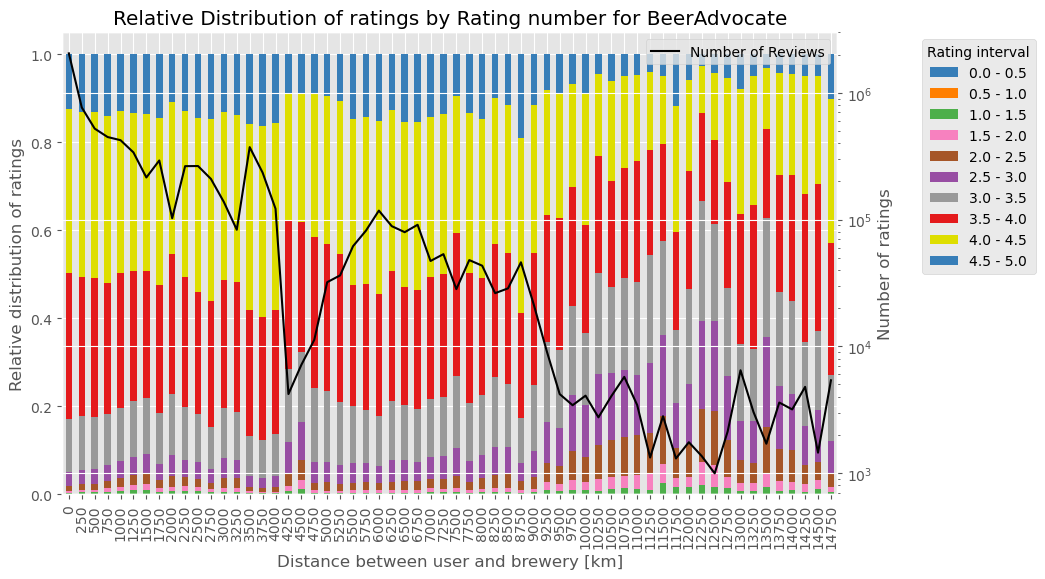
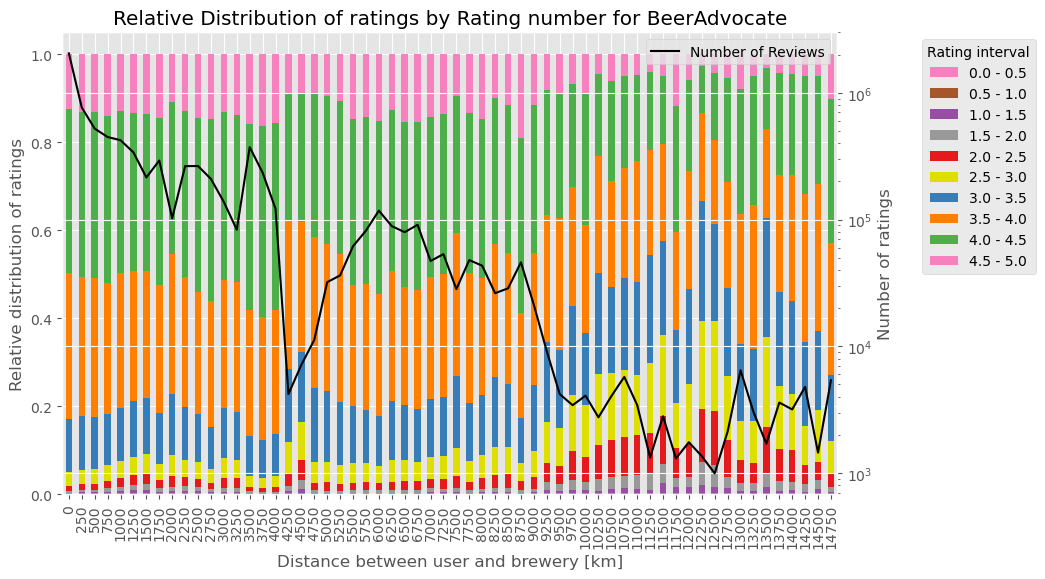
Changing images of Benedikt so the colors are in an order so that orange and blue are more prominent. Also adding more text.

Changed region(s): [[0.0612, 0.0933, 0.7962, 0.8705], [0.888, 0.0933, 0.9187, 0.4663]]

diff --git a/index.html b/index.html
@@ -111,6 +111,17 @@ title: Home
     <p>The following plot illustrates the distribution of user ratings for beers from breweries at various distances. On the x-axis, you can see the distance categories of the breweries from which the corresponding bar is calculated. The different colored segments in the stacked bars indicate the frequency of each rating for breweries at a given distance from the user. However, it is evident that some bars are more meaningful than others due to being based on more data. Therefore, we have also included a line indicating the number of ratings for each user-brewery distance. We show the plot for both datasets on which our analysis was based, in order to be able to see whether there are any major differences.</p>
     <img src="src/plots/imgs/distance_beer_advocate.png" alt="Plot showing the change in the rating distribution for different user-brewery distances for the BeerAdvocate dataset">
     <img src="src/plots/imgs/distance_rate_beer.png" alt="Plot showing the change in the rating distribution for different user-brewery distances for the RateBeer dataset">
+    <p>
+        We can indeed identify some trends. For example, we observe a peak of better ratings at a distance of approximately 4250 km to 4750 km. However, the line plot also shows a drastic decline in ratings, which can likely be explained by the distance between the USA and Europe. At this range, the Atlantic Ocean separates the two continents.
+    </p>
+    <p>
+        Beyond approximately 9000 km, the number of ratings also drops significantly, quickly falling below 1000 ratings per distance category. It is challenging to make qualified statements here, as the data is very noisy. However, if we focus on the range up to 9000 km and exclude the area around 4250 km to 4750 km, a few subtle trends can be identified.
+    </p>
+    <p>
+        Specifically, the distribution within the first 2000 km is slightly shifted upward compared to further distances. This suggests that within a radius of about 2000 km, there might indeed be a more homogeneous beer culture and a beer taste more similar to that of the user.
+    </p>
+
+
     <h1>3 Influence of the season</h1>
     <h2>3.1 Influence of the season on average rating</h2>
     <p>Next we look at whether the time of year, the season, has any influence on ratings. We grouped the ratings into months, as a less fine grained division into quarters would be very ingranular, and not enable us to see how trends develop as the year progresses, while a grouping into weeks or days would produce a lot of data and big dataframes. Let's first explore, if the time of year leads to a general rating "high" or "low", for example reviewers being more satisfied with their beer in the summer rather than the winter.</p>
